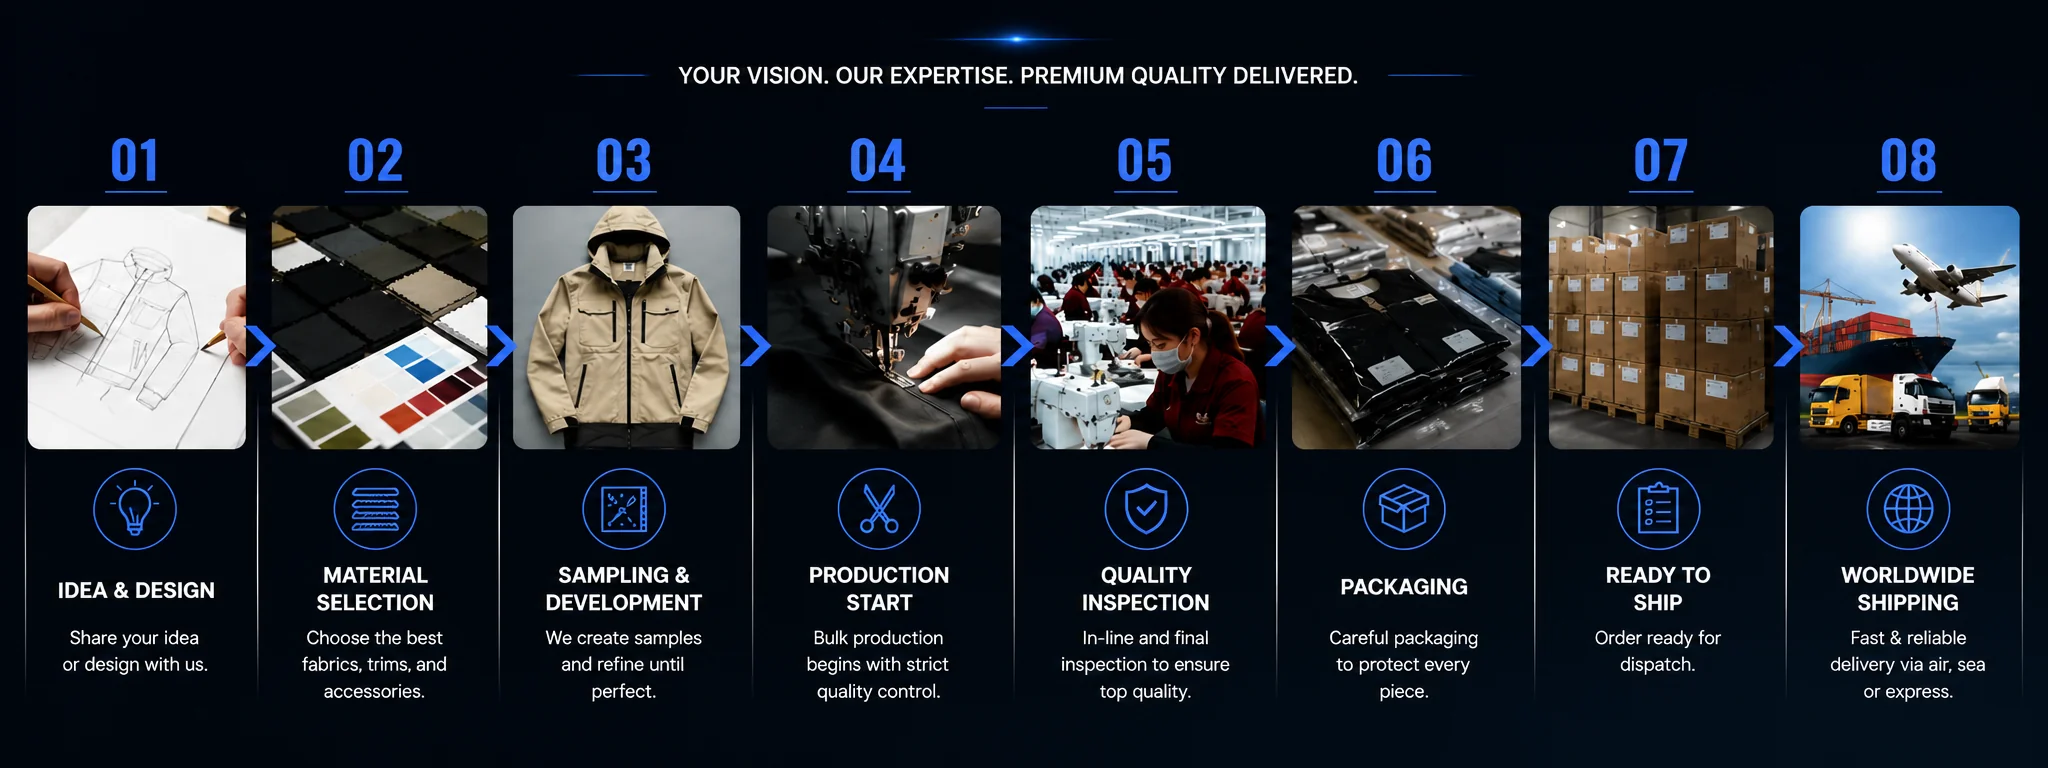
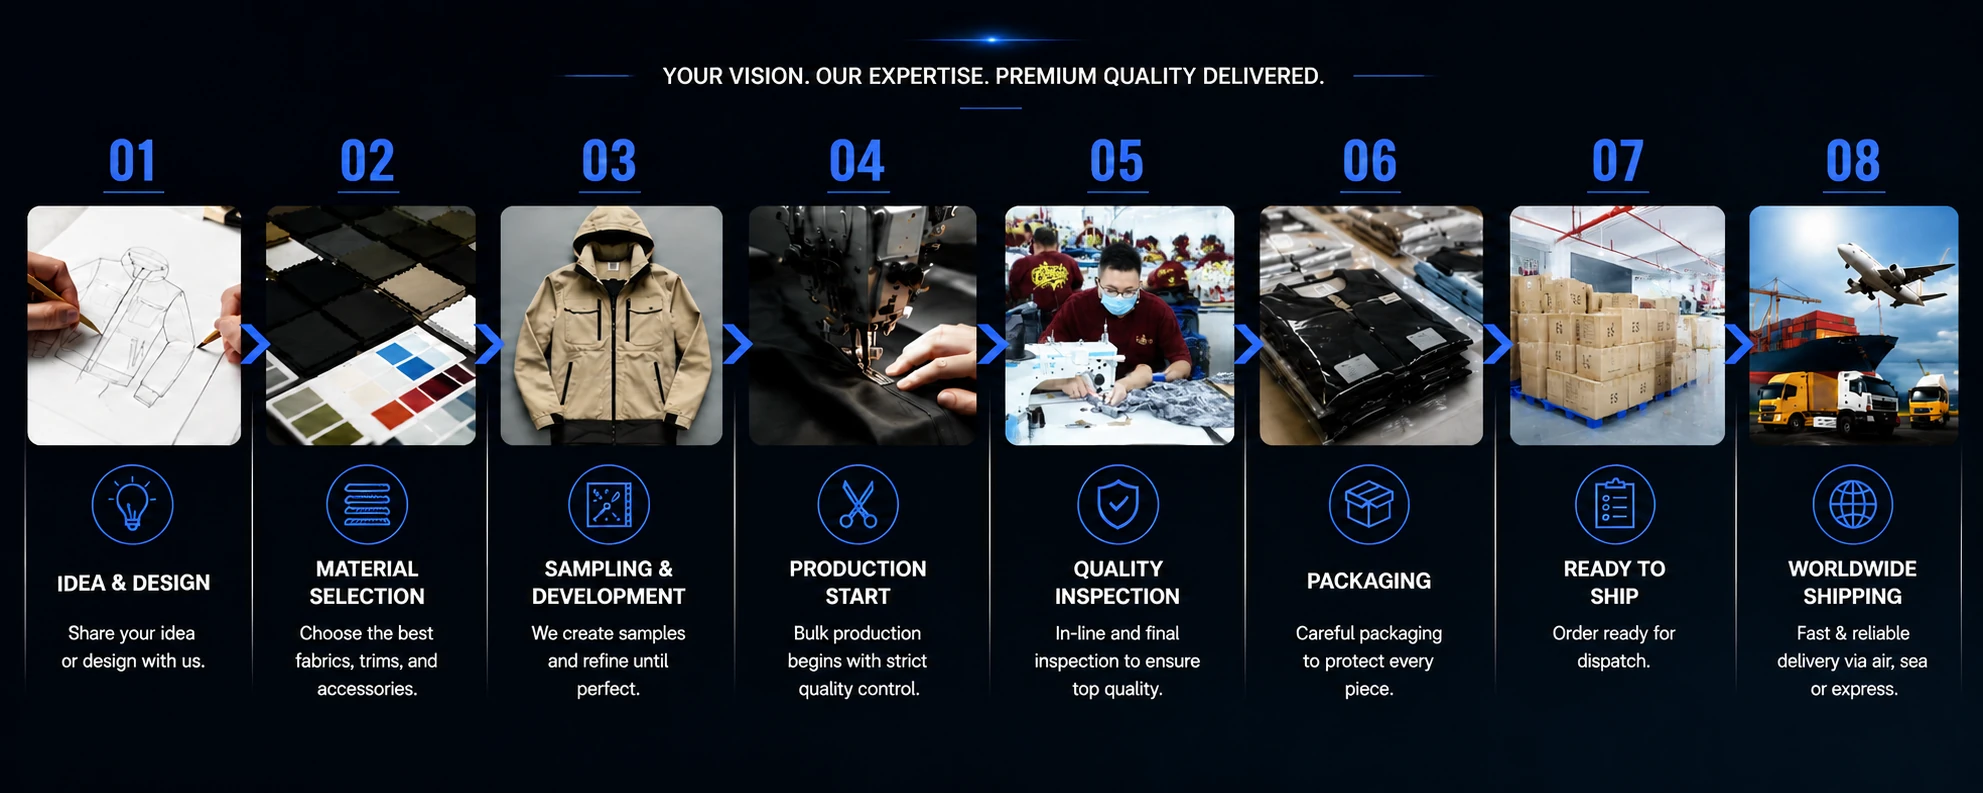
fix: From Idea to Bulk image - direct file path, survives redeploys
- Added new From Idea to Bulk.webp (1.6MB PNG -> 178KB WebP, 89% smaller)
- Changed from cms()/cmsMobile() to direct /images/From Idea to Bulk.webp
- This image now survives Railway redeploys (committed to repo, not uploaded to temp filesystem)
- Admin panel uploads go to temp filesystem which gets wiped on every deploy

Changed region(s): [[0.0, 0.1562, 1.0, 0.9062], [0.2769, 0.0312, 0.7075, 0.1562]]

diff --git a/source/src/pages/Home.tsx b/source/src/pages/Home.tsx
@@ -234,9 +234,9 @@ export default function Home() {
         </div>
         <div className="max-w-[1920px] mx-auto overflow-hidden w-full">
           {/* Desktop image */}
-          <img src={cms("supply-chain", "/images/From Idea to Bulk.webp")} alt="From Idea to Bulk - 8 Step Process" className="hidden md:block w-full h-auto md:h-[720px] object-cover" decoding="async" loading="lazy" />
+          <img src="/images/From Idea to Bulk.webp" alt="From Idea to Bulk - 8 Step Process" className="hidden md:block w-full h-auto md:h-[720px] object-cover" decoding="async" loading="lazy" />
           {/* Mobile image */}
-          <img src={cmsMobile("supply-chain", "/images/From Idea to Bulk.webp")} alt="From Idea to Bulk - 8 Step Process" className="md:hidden w-full h-auto object-cover" decoding="async" loading="lazy" />
+          <img src="/images/From Idea to Bulk.webp" alt="From Idea to Bulk - 8 Step Process" className="md:hidden w-full h-auto object-cover" decoding="async" loading="lazy" />
         </div>
       </section>
 